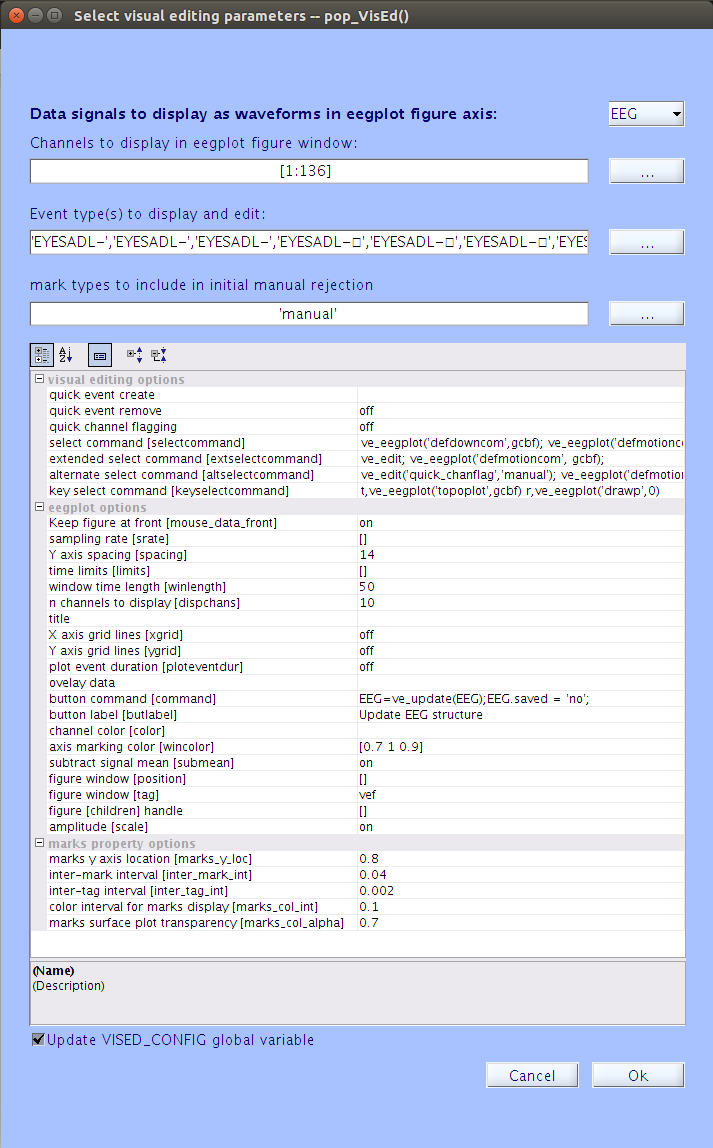
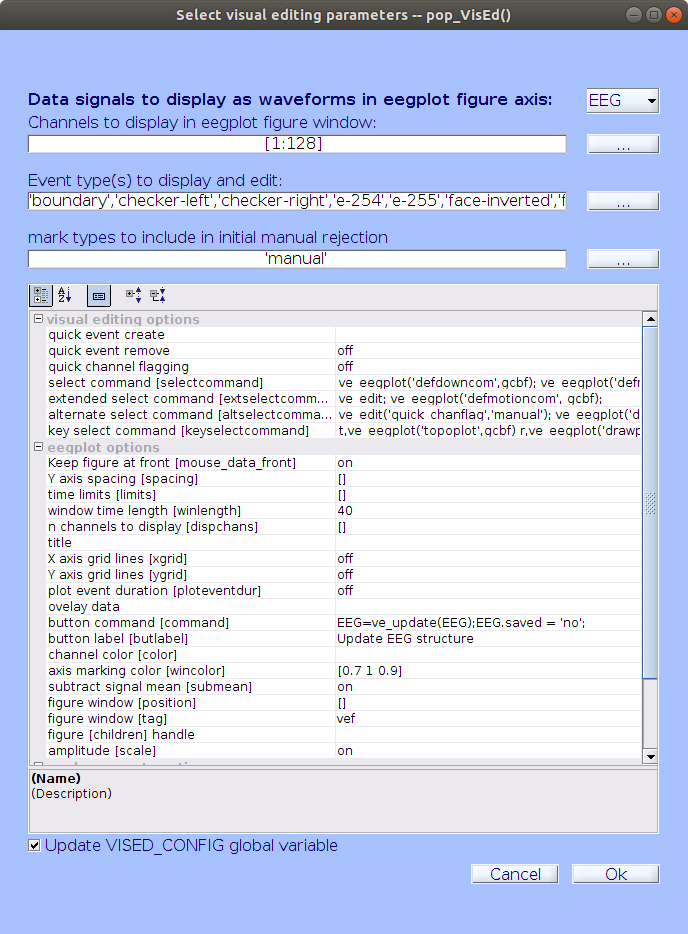
created steps to show how to use the Vised plugin

diff --git a/_episodes/01-vised.md b/_episodes/01-vised.md
@@ -1,0 +1,154 @@
+---
+title: "Using Vised"
+teaching: 10
+exercises: 0
+questions:
+- "How do we set up, configure, and use the vised_marks plugin?"
+objectives:
+- "To configure vised marks which will enable editing the marks in a scroll plot."
+- "To learn how to add, remove, and edit marks in the scroll plot."
+keypoints:
+- "First key point. Brief Answer to questions. (FIXME)"
+--- 
+
+## Load a Vised Configuration file
+
+The Vised configuration editor allows users to customise the vised plot behaviour. The user interface produces a configuration file that can be loaded as the default for future projects.
+
+1. In the main EEGLAB window, navigate to **File->Vised Configuration**.
+
+    ![Find Vised Config]({{ page.root }}/fig/findvisedconfig.png "Find Vised Config")
+
+2. If you already have a configuration file you can load it by clicking **Load vised config** and browsing to the file location. The default configuration file is `derivatives/lossless/code/config/vised_config.cfg`. You may also create your own configuration file by filling in some of the property fields and clicking **Save as** to save the file.
+
+    ![Vised config]({{ page.root }}/fig/visedconfig.png "Vised Config")
+
+3. Click the `| ... |` at the very right side of the Key Select Command field. You will notice the following popup window:
+
+    ![Key Select Command]({{ page.root }}/fig/keyselectcommandpopup.png "Key Select Command Popup")
+
+4. Here, you can add key presses to trigger adding or removing of a mark. Each key press appears on a new line. The format is: the desired key press, followed by a comma, then followed by a function call. For example, to add a manual mark called 'custom_mark', you would add the following line:
+
+    `m,ve_edit('awm','custom_mark')`
+
+    To remove the 'custom_mark', you would add the following line:
+
+    `M,ve_edit('rwm','custom_mark')`
+
+    > ## Note
+    > We used the 'm' and 'M' key pressed as an example, but you can select any keys you want here.
+    >
+    > {: .source}
+    {: .callout}
+
+5. Once you have created or loaded the vised configuration file, click `| Ok |` to load the file into EEGLAB.
+
+> ## Note
+> Saving the vised configuration after personalising settings can save a lot of time!
+>
+> {: .source}
+{: .callout}
+
+## Open the Vised EEG scroll plot
+
+1. In the main EEGLAB window, load a data file by navigating to **File->Load existing dataset** and select a `*.set` file.
+
+2. Again, in the main EEGLAB window, navigate to **Edit->Visually edit in scroll plot**.
+
+    ![Find Edit Scroll Plot]({{ page.root }}/fig/findeditscrollplot.png "Find Edit Scroll Plot")
+
+3. You will see a similar window appear as the one where you load the Vised configuration file, but with a few extra options at the top. 
+
+    ![Visually Edit Option Window]({{ page.root }}/fig/viseditscrollplot.png "Visually Edit Option Window")
+
+4. If there was an ICA performed on the file, you have the option of viewing the component scroll plot in addition to the EEG scroll plot, which displays each component as a waveform rather than each channel. This option can be selected using the drop-down menu in the top right of the window. Once you have selected the type of scroll plot, click `| Ok |` to display the scroll plot:
+
+## Editing Marks Visually
+
+When you click the `| Ok |` button at the bottom of the interface, a scroll plot of your data that is set up the way you specified in the configuration should pop up:
+
+![Manual Scroll Plot Options]({{ page.root }}/fig/manscrollplotoptions.png "Manual Scroll Plot Options")
+
+> ## Note
+> If you get an error in the matlab command window, make sure you have set your default renderer correctly:
+> ```matlab
+>> set(0,'DefaultFigureRenderer','OpenGL');
+```
+> {: .source}
+{: .callout}
+
+Marks can either be in the x-axis (time) or in the y-axis (channels/components) depending on what functions you are using.
+
+- If you are selecting a channel (**[right-click]**), you will see the whole channel get selected. In the case of a removal, this will remove the whole channel from the data.
+- If you are selecting using the winrej highlighting tool (**[left-click -> drag -> release left-click]** in MATLAB 2014b or later, OR **[left-click -> release left-click -> drag -> left-click -> release left-click]** in earlier versions) in the time axis, you will be selecting a particular time period but also all of the channels/components at once. In the case of doing a removal you will be deleting all of the channel data during that time frame. The missing time will then be indicated by a boundary event. You cannot remove a time section from only a single channel, as the time for all the channels need to match.
+
+> ## Note
+> The vertical location of the color indicator on the screen does not matter, as it is applied to all of the channels during the selected time frame. If you have two colors during the same time frame it means the data is flagged for both reasons. If you scroll up and down through the channels you will see that the color marks do not move while the channels scroll up and down unattached.
+>
+> {: .source}
+{: .callout}
+
+### Adding a Mark
+
+1. To start adding marks, use the winrej highlighting tool (**[left-click]**) and hover your mouse over the selected data. 
+
+2. Then, use one of the hotkeys you have assigned to mark the data with the desired mark. In the example below, a **awm** mark named 'custom_mark' was added by using the key select command string:
+
+    `m,ve_edit('awm','custom_mark')`
+
+    Using an addition mark for the first time will cause the following popup to appear:
+
+    ![New Mark Info]({{ page.root }}/fig/newmarkinfo.png "New Mark Info")
+
+3. It should already be populated with most of the information you provided. Make sure you select a color for the mark by typing in the **[R G B]** or by clicking the `|   |` button and selecting from the color pallet. Once you have finished with this pop up, you should see the mark appear at the top of the data.
+
+    ![Custom Mark Added]({{ page.root }}/fig/addcustommark.png "Custom Mark Added")
+
+4. In this example, the navy blue custom_mark (see the name on the right side of the window) that we created above, was added to the area where the winrej had highlighted from approximately 84 to 87 seconds.
+
+### Removing a Mark
+
+The process to remove a mark is very similar to adding. Start by using the winrej tool to select the area where you would like to remove a mark. Make sure to keep your mouse hovered over that selection when pressing your designated remove key. In the example below part of the navy blue mark called 'custom_mark' will be removed with the rwm command specified to remove 'custom_mark' by using the string:
+
+`M,ve_edit('rwm','custom_mark')`  
+
+OR  
+
+`M,ve_edit('rwm','pop_select')`  
+
+No popups will appear in the first case because custom_mark was explicitly specified to be removed. In the second case, a popup menu will appear, and you will be able to select any of the existing marks, making it a more versatile but less efficient hotkey command.
+
+![Custom Mark removed]({{ page.root }}/fig/removecustommark.png "Custom Mark Removed")
+
+### Defaults
+
+If you leave the function `ve_edit()` blank, then your keystroke will give you the following popup menu to create an action:
+
+![Edit Event Popup]({{ page.root }}/fig/newremovepopup.png "Edit Event Popup")
+
+From this interface you can either create an **event** or **toggle a channel command**.
+
+- Event
+    - Make sure the Edit events button is selected.
+    - Under Event type, type the event name.
+    - Click `| Ok |`.
+    - You should see a new event line created where your mouse was positioned.
+  
+- Channel
+    - Make sure the Toggle channel marks status button is selected.
+    - Select the mark designation (manual type is the default, but you can also make this the same as other channel/component marks).
+    - Select the channel/component you wish to apply this to.
+    - Click `| Ok |`.
+    - You should see that the channel/component you selected is now highlighted with the designated mark color.
+
+### Completing the Session
+
+Once you have marked the data as you would like, you will need to click the `| Update EEG Structure |` button at the bottom right of the window. This will take the marks that you have added/removed/modified and update them in the EEG.marks structure, which will essentially save your changes so that the next time the data is loaded you will see your updated marks.
+
+> ## NOTE
+> Clicking `| Update EEG Structure |` does NOT delete/purge the selected channels/components or time points. It merely marks them in the EEG.marks structure, which could later be used to purge the marked data. The file also needs to be explicitly saved after this, because only the EEG structure in MATLAB has been updated, but the file itself has not been saved.
+>
+> {: .source}
+{: .callout}
+
+{% include links.md %}

diff --git a/_episodes/02-options.md b/_episodes/02-options.md
@@ -1,28 +1,85 @@
 ---
-title: "Configuration"
-teaching: 10
+title: "Edit Marks Visually"
+teaching: 20
 exercises: 0
 questions:
-- "How do we set up and configure the vised_marks plugin?"
+- "How do we edit marks visually?"
 objectives:
-- "To configure vised marks which will enable editing the marks in a scroll plot."
+- "Learn how to create and purge marks visually."
 keypoints:
-- "First key point. Brief Answer to questions. (FIXME)"
+- "FIXME"
 ---
 
-The vised configuration editor allows users to customise their vised plot behaviour. The user interface produces a configuration file that can be loaded as the default for future projects.
+## Getting Started
 
-**Note:** Saving the vised configuration after personalising settings can save a lot of time!
+Editing data using this method is a manual way for you to inspect the scroll data and at the same time mark it up into different components. This method can be used before and after editing the data using scripts, depending on what aspects of the data you are looking at. Marks can help you visually interpret the data and will also save the marks selections on the data that you have made. This information can be used later to isolate or chop up the data into the different selections.
 
-![Manual Scroll Plot Options]({{ page.root }}/fig/manscrollplotoptionspic.png "Manual Scroll Plot Options")
+![Vised Scroll Plot]({{ page.root }}/fig/visedmanscrollplot.png "Vised Scroll Plot")
 
-This page outlines accessing the configuration interface and explaining each of the elements you can modify. In EEGLAB go to **File->Vised Configuration**.
+In order to start directly editing and placing marks, load the scroll data by navigating to **Edit->Visually Edit in Scroll Plot**.
 
-![Find Vised Config]({{ page.root }}/fig/findvisedconfig.png "Find Vised Config")
+![Edit Vised Drop Down Menu]({{ page.root }}/fig/editvised.png "Edit Vised Drop Down Menu")
 
-If you already have a configuration file you can load it by clicking Load Vised Config and browsing to the file location.
+The first pop up that shows up should look similar to the figure below. 
 
-![Vised config]({{ page.root }}/fig/visedconfig.png "Vised Config")
+![Edit Vised]({{ page.root }}/fig/viseditscrollplot.png "Edit Vised")
+
+If you haven't already, go check out the Configuration episode to find out what each of these interface fields are. If you have already created or loaded a configuration file then most of these fields will already be complete.
+
+The most important field for this manual editing method is the key select command **[keyselectcommand]** as it is where you can define each of your editing key strokes. You will be creating a cell array of strings that should follow the following pattern, with one [key press/function] on each line:
+
+`key_press,function_called('key_action1','key_value1'...'key_action2','key_value2'...)`
+
+First is the keyboard key that you going to assign a certain action to, followed by a comma and the function that you be calling with this key press. Typically, this is `ve_eegplot()` or `ve_edit()`. These functions are explained on the [Functions Wiki Page](https://github.com/BUCANL/Vised-Marks/wiki/Function-Reference) on Github, as well as in the built in Matlab help command.
+
+![Key Select Command Popup]({{ page.root}}/fig/keyselectcommandpopup.png "Key Select Command Popup")
+
+The `ve_eegplot()` and `ve_edit()` functions both contain different common actions you may want as hotkeys in them, some of which are outlined below. You can call as many key_actions as you would like in the same function. You can also assign a key to call two different functions by simply creating a new line and reusing the same designated key stroke.
+
+### ve_eegplot
+
+|key_action | key_value | Description |
+|-----------|-----------|-------------|
+| 'topoplot'|[figure handle]|	Draws a topographic plot of the time selected |
+| 'drawp'	|[movement direction]|	Refreshes and redraws the figure |
+
+
+> ## Where movement direction is:
+>
+> 0 - to redraw  
+> 1 - to move left by one window  
+> 2 - to move left by one second  
+> 3 - to move right by one second  
+> 4 - to move right by one window  
+>
+> {: .source}
+{: .checklist}
+
+### ve_edit
+
+|key_action | key_value | Description |
+|-----------|-----------|-------------|
+|'quick_event_make' or 'qem'|	['name_of_event'] | Insert event at latency of mouse pointer
+|'quick_channel_flag' or 'qcf'|	['name_of_chan_info_mark_label'] | Flag the channel at mouse pointer with the named mark. |
+|'select_mark' or 'sm'|	['on' or 'off'] |	Select (winrej highlight) the period of time flagged by time_info mark under the mouse pointer. |
+|'add_winrej_marks' or 'awm'|	['name_of_time_info_mark'] | Insert a mark on the data selected by the winrej highlight under the mouse pointer. |
+|'remove_winrej_mark' or 'rwm'|	['name_of_time_info_mark'] | Remove the named time_info mark on for the period of winrej highlight under the mouse pointer. If the 'name_of_time_info_mark' is set as 'pop_select' a pop up selection appears on each use. |
+|'add_page_mark' or 'apm'|	['name_of_time_info_mark'] | Applies a mark to the whole page window. |
+|'remove_page_mark' or 'rpm'| ['name_of_time_info_mark'] |	Removes a mark from the whole page window. |
+|'page_forward' or 'pf'| ['on' or 'off'] |	Moves 1 page forward, based on the time displayed. |
+|'data_move' or 'dm'| ['on' or 'off'] |	Data move from data2 to data array for selected period. |
+
+
+Once you have input all of the keystrokes that you want to be editing with, you should make sure that the other configuration settings are also set as desired. Across the top of the pop up page there are four additional selections that were not in the configuration interface:
+
+![Top Part of Visually Edit]({{ page.root}}/fig/toppartofvisuallyedit.png "Top Part of Visually Edit")
+
+You can change these fields by typing or by clicking the `| ... |` button and using the selection tool.
+
+1. **Channels to display in the window:** In this field, you can select what channels/components you would like to display in the pop up scroll data window. Alternatively you can also use the number of channels to display option in the main config fields and use the side scroll bar to navigate the window.
+2. **Events to display:** This will filter which events will be displayed on the scroll data.
+3. **Mark types to include in rejection:** This section contains the types of marks that you will be rejecting when you click the Update EEG Structure button. By default this field contains manual marks.
+4. At the top right there is a drop down selection between EEG and ICA data types. The marking system works the same way in ICA components mode, except instead of displaying the channel data it will display the component data.
 
 ## Visual Editing Options
 
@@ -91,7 +148,7 @@ The second group of configuration options deal with creating a default setting f
     - **[value]** Seconds (or epochs) of data to display in window (default = 5).
 
 - n Channels to Display **[dispchans]**
-    - **[integer]** Number of channels to display in the activity window (default: from data). If < total number of channels, a vertical slider on the left side of the figure allows vertical data scrolling.
+    - **[integer]** Number of channels to display in the activity window (default: from data). If less than total number of channels, a vertical slider on the left side of the figure allows vertical data scrolling.
 
 - Title
     - Figure title (default = none).
@@ -154,7 +211,6 @@ This last section of the configuration deals with adjusting how your marks will 
 
 - Marks Surface Plot Transparency **[marks_col_alpha]**
     - Alpha is a value between 0 and 1 where 0 = transparent and 1 = opaque (default = .7).
-
 
 {% include links.md %}
 
